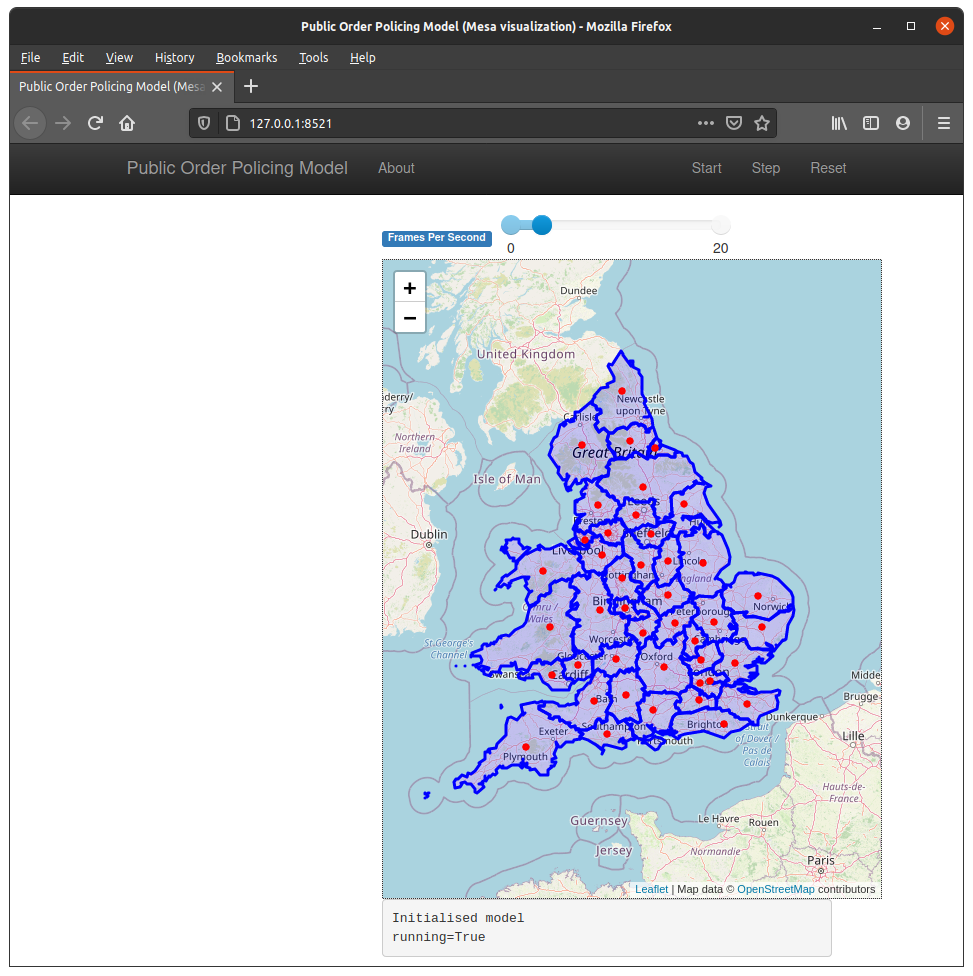
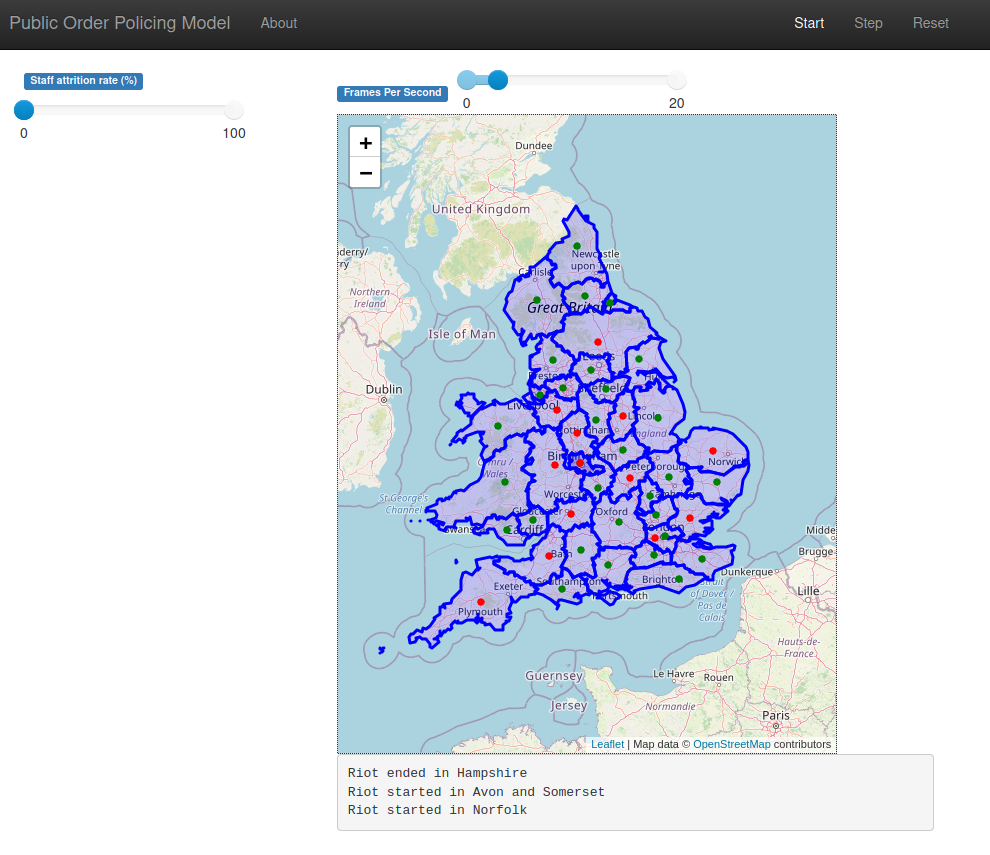
start #3, random events parameterised on ratio of police to population in each force area

diff --git a/popm/agents.py b/popm/agents.py
@@ -1,5 +1,7 @@
 from mesa_geo.geoagent import GeoAgent
 
+import random
+
 class ForceAreaAgent(GeoAgent):
 
   """ Agent representing a police force area """
@@ -12,12 +14,40 @@ class ForceAreaAgent(GeoAgent):
 
 class ForceCentroidAgent(GeoAgent):
 
-  """ Agent representing a reference point in the force area to compute costs (distances) """
+  """ Agent representing a reference point in the force area to compute costs (distances) and count public order events within the force area """
   def __init__(self, unique_id, model, shape, staff_attrition):
     # staff_attrition is a global setting really, but I've inserted it here more as a how-to than a necessity
 
     super().__init__(unique_id, model, shape)
     self.staff_attrition = staff_attrition
 
+    self.public_order_events = 0
+
   def step(self):
-    pass
+    # riot start probability inversely proportional to cop density
+    p_activation = 0.00001 / self.cops_per_pop 
+    # riot end probability proportional to cop density
+    p_deactivation = 1.3 * self.cops_per_pop
+    # note start and end events are independent
+    if random.random() < p_activation:
+      self.public_order_events = self.public_order_events + 1
+      self.model.log.append("Riot started in %s" % self.name)
+    if random.random() < p_deactivation and self.public_order_events > 0:
+      self.public_order_events = self.public_order_events - 1
+      self.model.log.append("Riot ended in %s" % self.name)
+
+  def colour(self):
+    if self.public_order_events == 0:
+      return "Green"
+    return "Red"    
+    
+
+# class PublicOrderEvent(GeoAgent):
+
+#   """ Agent representing a public order event """
+#   def __init__(self, unique_id, model):
+
+#     super().__init__(unique_id, model)
+
+#   def step(self):
+#     pass

diff --git a/popm/model.py b/popm/model.py
@@ -28,13 +28,21 @@ def _load_data():
   data = pd.read_csv(force_data) \
     .replace({"Metropolitan": "Metropolitan Police"}) \
     .rename({"Force": "name"}, axis=1)
-  # TODO what is POP in the above dataset? seems too low for population in 1000s
+  # POP = Public Order (trained) Police
 
   populations = pd.read_csv(population_data) \
     .replace({"London, City of": "City of London"}) \
     .rename({"Police Force": "name", "MYE2018": "population", "SNHP2017": "households"}, axis=1)[["name", "population", "households"]]
 
   gdf = gdf.merge(data, on="name", how="left").fillna(0).merge(populations, on="name")
+
+  # ratio of police to people (hacks for missing data)
+  for i in [16,23,27]:
+    gdf.at[i, "Officers"] = 0.004 * gdf.at[i, "population"]
+
+  gdf["cops_per_pop"] = gdf.Officers / gdf.population 
+
+  print(gdf.cops_per_pop)
 
   # NOTE warnings:
   # pandas/core/generic.py:5155: UserWarning: Geometry is in a geographic CRS. Results from 'area' are likely incorrect. Use 'GeoSeries.to_crs()'
@@ -54,7 +62,7 @@ def _load_data():
 
   # compute centroids and shift index so that agent ids arent duplicated
   # for now the centroids dont have the force data
-  centroids = gpd.GeoDataFrame(gdf[["code", "name"]], geometry=gpd.points_from_xy(gdf.LONG, gdf.LAT), crs = {"init": "epsg:4326"})
+  centroids = gpd.GeoDataFrame(gdf[["code", "name", "cops_per_pop"]], geometry=gpd.points_from_xy(gdf.LONG, gdf.LAT), crs = {"init": "epsg:4326"})
   centroids.index += 100
 
   # compute distance matrix
@@ -121,7 +129,7 @@ class PublicOrderPolicing(Model):
     #self.datacollector.collect(self)
 
     # Halt the model
-    self.running=False
+    #self.running=False
 
 
 if __name__ == "__main__":

diff --git a/popm/portrayal.py b/popm/portrayal.py
@@ -7,6 +7,6 @@ def portray_map(agent):
   if isinstance(agent, ForceAreaAgent):
     return { "color": "Blue" }
   elif isinstance(agent, ForceCentroidAgent):
-    return { "radius": "2", "color": "Red" }
+    return { "radius": "2", "color": agent.colour() }
   else:
     raise TypeError("don't know how to portray object of type %s" % type(agent))

diff --git a/popm/visualization/LogElement.py b/popm/visualization/LogElement.py
@@ -9,4 +9,4 @@ class LogElement(TextElement):
   def render(self, model):
 
     """ log must be a string list """
-    return "<pre>" + "\n".join(model.log) + "</pre>"
+    return "<pre>" + "\n".join(model.log[-3:]) + "</pre>"
